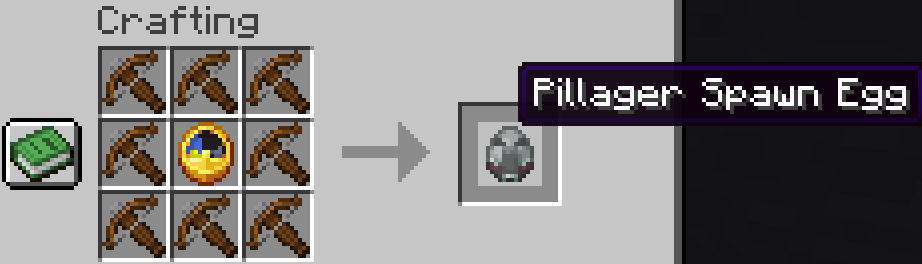
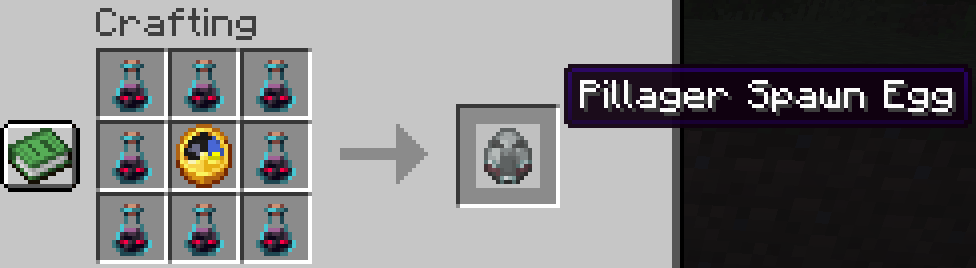
Added Guardian egg, changed recipes for Pillager and Vindicator

Changed region(s): [[0.0, 0.0, 1.0, 1.0], [0.6681, 0.4545, 0.7592, 1.0]]

diff --git a/README.md b/README.md
@@ -47,6 +47,7 @@ The recipe will look like:
 ![Evoker](https://raw.githubusercontent.com/uprial/customrecipes/master/images/evoker_spawn_egg.png)
 ![Ghast](https://raw.githubusercontent.com/uprial/customrecipes/master/images/ghast_spawn_egg.png)
 ![Glow Squid](https://raw.githubusercontent.com/uprial/customrecipes/master/images/glow_squid_spawn_egg.png)
+![Guardian](https://raw.githubusercontent.com/uprial/customrecipes/master/images/guardian_spawn_egg.png)
 ![Magma Cube](https://raw.githubusercontent.com/uprial/customrecipes/master/images/magma_cube_spawn_egg.png)
 ![Panda](https://raw.githubusercontent.com/uprial/customrecipes/master/images/panda_spawn_egg.png)
 ![Parrot](https://raw.githubusercontent.com/uprial/customrecipes/master/images/parrot_spawn_egg.png)

diff --git a/releases/NOTES-0.8.1.md b/releases/NOTES-0.8.1.md
@@ -1,0 +1,3 @@
+# Balance
+* Added Guardian egg
+* Changed recipes for Pillager and Vindicator
